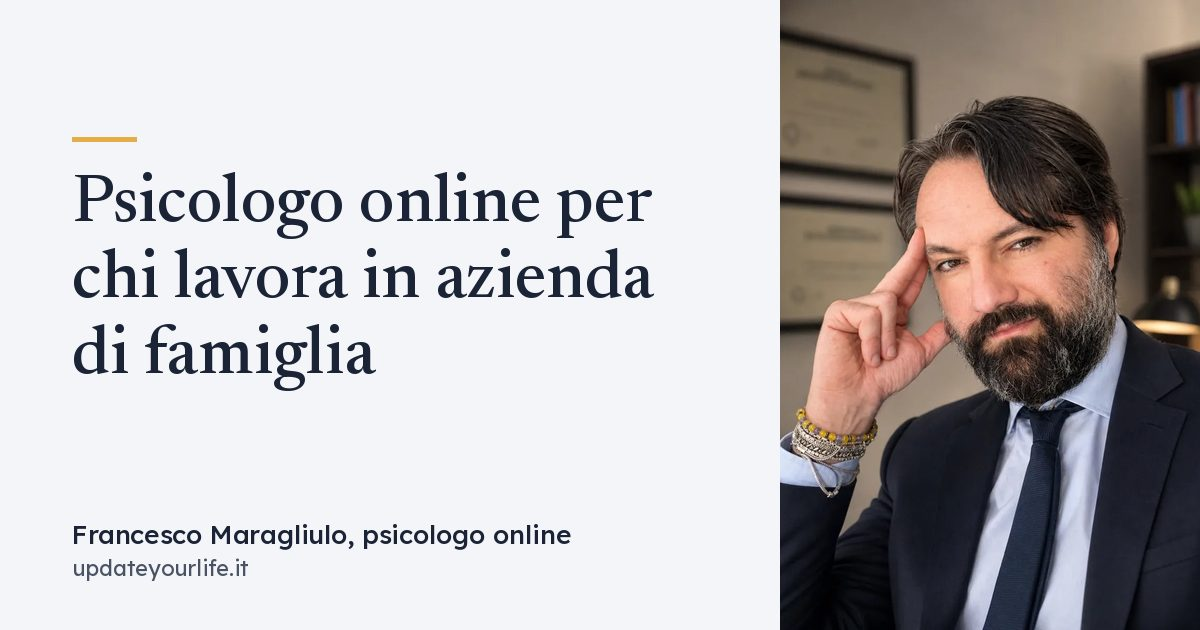
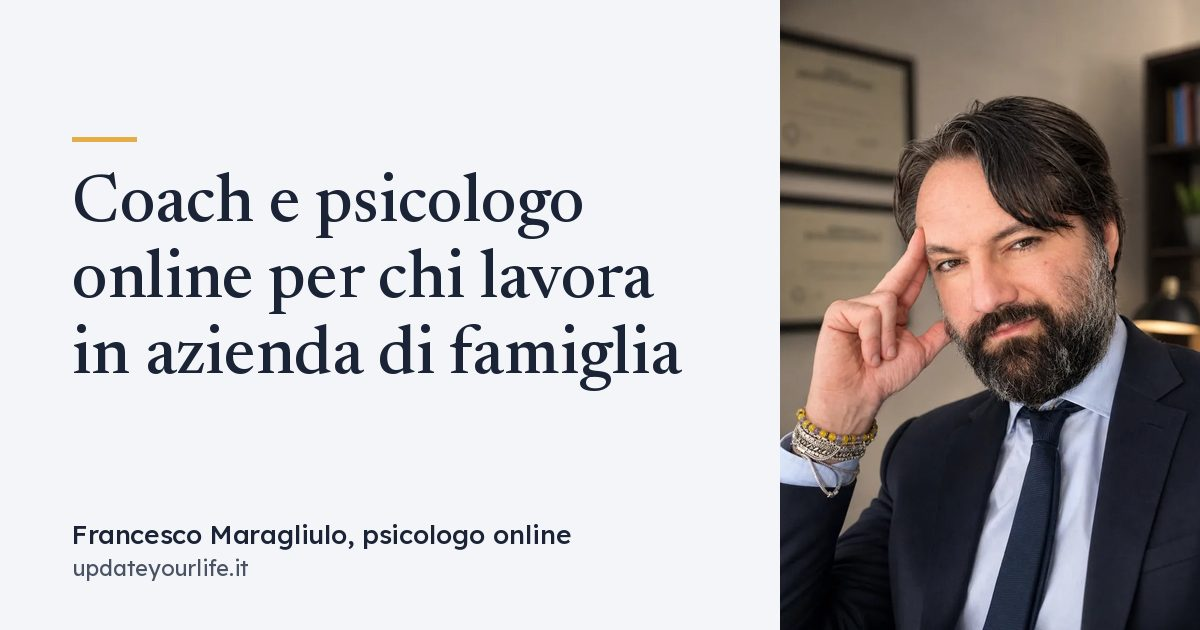
Titolo: Coach e psicologo online per chi lavora in azienda di famiglia
Claude-Session: https://claude.ai/code/session_019j2EgAcirybsgmy1N9RxaK

Changed region(s): [[0.0617, 0.3921, 0.5858, 0.6333], [0.0617, 0.2714, 0.555, 0.3921]]

diff --git a/azienda-di-famiglia-online/index.html b/azienda-di-famiglia-online/index.html
@@ -3,14 +3,14 @@
 <head>
 <meta charset="UTF-8">
 <meta name="viewport" content="width=device-width, initial-scale=1.0">
-<title>Psicologo online per chi lavora in azienda di famiglia</title>
+<title>Coach e psicologo online per chi lavora in azienda di famiglia</title>
 <meta name="description" content="Percorso individuale online per chi lavora in azienda con padre, madre o fratelli: coaching sul ruolo e sostegno psicologico. Call gratuita di 20 minuti.">
 <meta name="author" content="Francesco Maragliulo">
 <meta name="robots" content="index, follow, max-image-preview:large">
 <link rel="canonical" href="https://www.updateyourlife.it/azienda-di-famiglia-online/">
 <meta property="og:type" content="article">
 <meta property="og:url" content="https://www.updateyourlife.it/azienda-di-famiglia-online/">
-<meta property="og:title" content="Psicologo online per chi lavora in azienda di famiglia">
+<meta property="og:title" content="Coach e psicologo online per chi lavora in azienda di famiglia">
 <meta property="og:description" content="Coaching sul ruolo e sostegno psicologico online, per chi lavora in azienda con la famiglia. Prima call gratuita.">
 <meta property="og:image" content="https://www.updateyourlife.it/img/og/azienda-di-famiglia-online.jpg">
 <meta property="og:image:width" content="1200">
@@ -30,7 +30,7 @@
       "@type": "WebPage",
       "@id": "https://www.updateyourlife.it/azienda-di-famiglia-online/#webpage",
       "url": "https://www.updateyourlife.it/azienda-di-famiglia-online/",
-      "name": "Psicologo online per chi lavora in azienda di famiglia",
+      "name": "Coach e psicologo online per chi lavora in azienda di famiglia",
       "inLanguage": "it-IT",
       "isPartOf": {
         "@id": "https://www.updateyourlife.it/#website"
@@ -178,7 +178,7 @@
   <div class="wrap">
     <nav class="crumbs" aria-label="Breadcrumb"><a href="/">Home</a> / <a href="/psicologo-online/">Psicologo online</a> / <span>Azienda di famiglia</span></nav>
     <div>
-      <h1>Psicologo online per chi lavora in azienda di famiglia</h1>
+      <h1>Coach e psicologo online per chi lavora in azienda di famiglia</h1>
       <p class="lead">Lavorare con tuo padre, tua madre o i tuoi fratelli significa che il ruolo e la famiglia si intrecciano ogni giorno. Qui trovi uno spazio tuo: un percorso individuale online che unisce coaching sul ruolo e sostegno psicologico, con uno psicologo che conosce la vita in azienda dall'interno.</p>
       <div class="author">
         <img src="/img/francesco-maragliulo-avatar.webp" width="240" height="240" alt="" fetchpriority="high">

diff --git a/scripts/build-og.py b/scripts/build-og.py
@@ -23,7 +23,7 @@ PAGES = [
     ('momenti-di-cambiamento-online', 'Psicologo online per i momenti di cambiamento'),
     ('stress-lavoro-burnout-online', 'Psicologo online per stress da lavoro e burnout'),
     ('psicologo-per-manager', 'Psicologo online per manager e professionisti'),
-    ('azienda-di-famiglia-online', 'Psicologo online per chi lavora in azienda di famiglia'),
+    ('azienda-di-famiglia-online', 'Coach e psicologo online per chi lavora in azienda di famiglia'),
     ('coaching', 'Coaching online per chi lavora in azienda'),
     ('psicologo-online-italiani-estero', "Psicologo italiano online per chi vive all'estero"),
     ('psicologo-online-milano', 'Psicologo online a Milano'),
